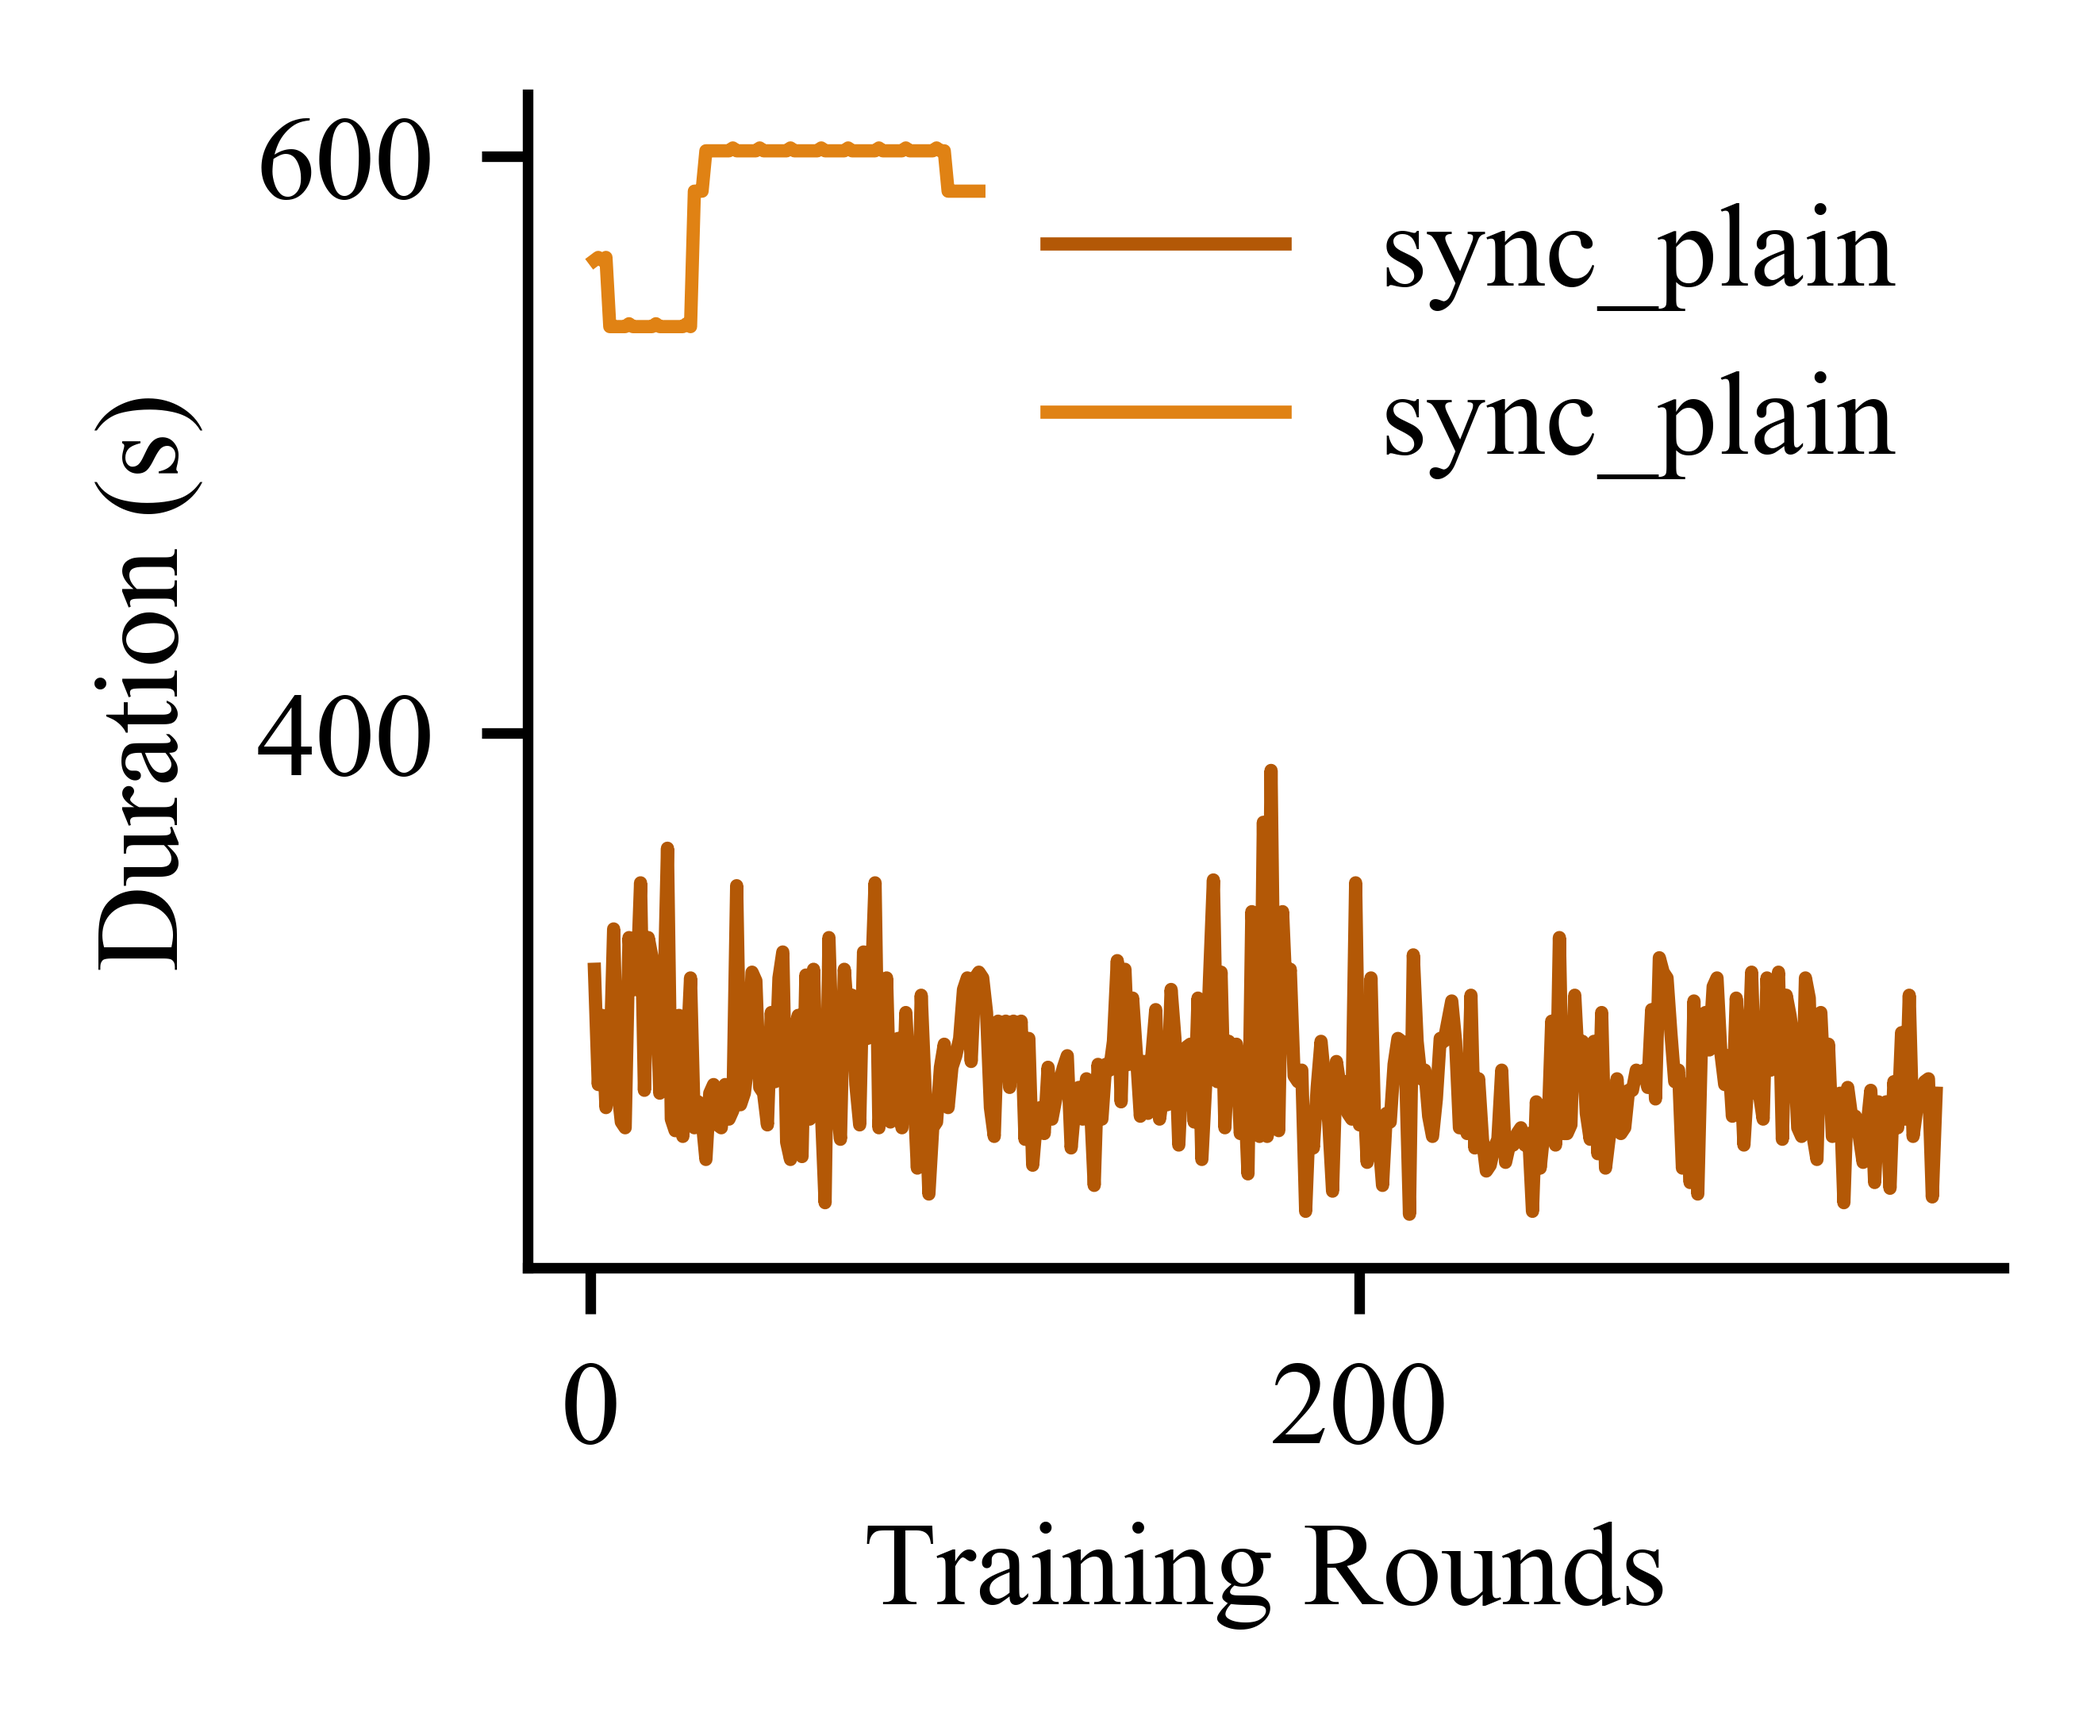
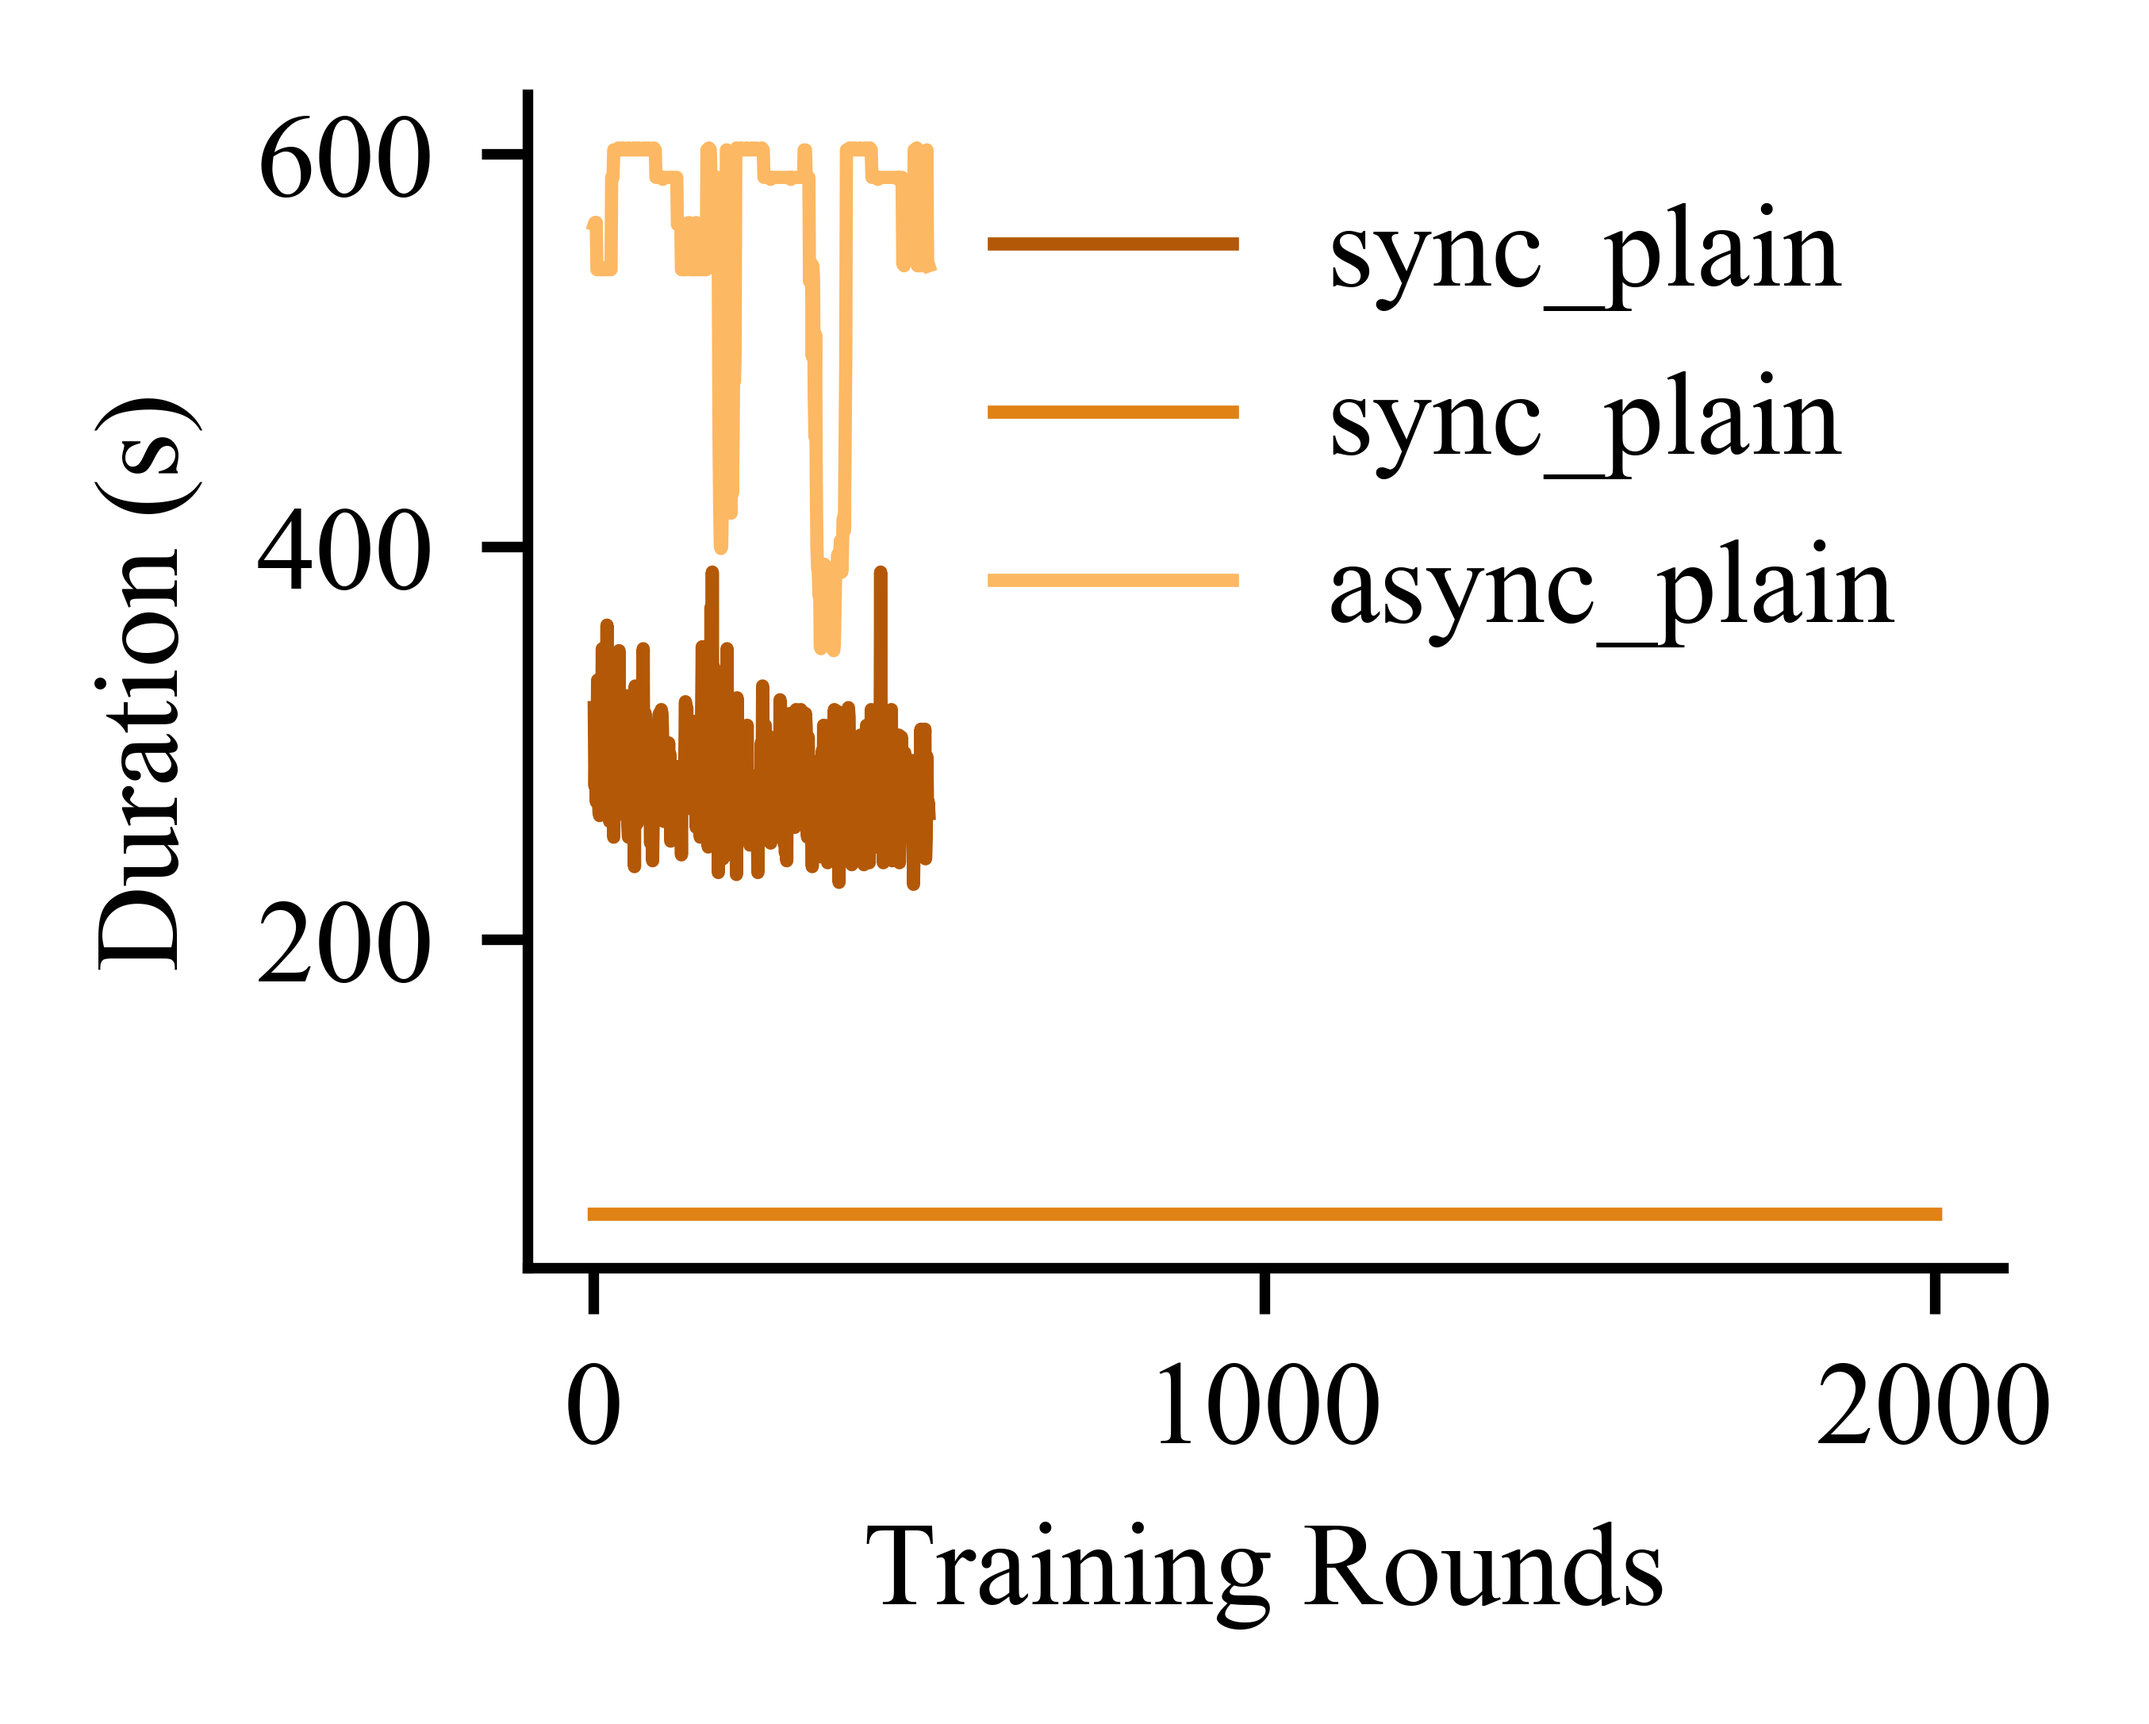
For checking out.

diff --git a/core/evals/my_perf.py b/core/evals/my_perf.py
@@ -17,6 +17,7 @@ def plot_line(datas, xs, linelabels=None, label=None, y_label="CDF", name="my_pl
     ax = fig.add_subplot(111)
 
     colors = ['#b35806','#e08214','#fdb863','#8073ac','#542788', '#000000']
+    colors = ['#b35806', '#e08214', '#8073ac', '#542788', '#000000']
     # linetype = ['-']
     linetype = ['-', '--']
     # markertype = ['o', '|', '+', 'x']
@@ -101,14 +102,23 @@ def plot_line_2(datas, xs, linelabels=None, label=None, y_label="CDF", name="my_
 
 def run(task_prefix):
     # personalized = "meta" # "meta" or "none" or "ditto"
-    task_dict = {
+    task_dict = {  # for google_speech
         # f"local_none_all_test_60": "local",
         f"random_none_all_test": "sync_plain",
         # f"random_meta_all_test": f"sync_plainync_meta",
         # f"async_meta_all_test_100_60": "async_meta",
-        # f"async_none_all_test_60": "async_plain",
+        f"async_none_all_test_60": "async_plain",
         f"random_none_larger_all_test": "sync_plain_larger",
     }
+
+    # task_dict = {  # for openimage
+    #     # f"local_none_all_test_60": "local",
+    #     f"random_none_all_test": "sync_plain",
+    #     # f"random_meta_all_test": f"sync_plainync_meta",
+    #     # f"async_meta_all_test_100_60": "async_meta",
+    #     f"async_none_all_test": "async_plain",
+    #     f"random_none_larger_all_test": "sync_plain_larger",
+    # }
 
     # x-axis
     training_round_list_list_no_sync = []

diff --git a/core/fllibs.py b/core/fllibs.py
@@ -174,8 +174,13 @@ def init_dataset_all_test():
             from utils.openimage import OpenImage
             _, all_test_transform = get_data_transform('openImg')
             all_test_dataset = OpenImage(args.data_dir, dataset='train', transform=all_test_transform)
+
+        elif args.data_set == 'femnist':
+            from utils.femnist import FEMNIST
+            _, all_test_transform = get_data_transform('mnist')
+            all_test_dataset = FEMNIST(args.data_dir, train=True, transform=all_test_transform)
         else:
-            print('DataSet must be {}!'.format(['speech', 'openImg']))
+            print('DataSet must be {}!'.format(['speech', 'openImg', 'femnist']))
             sys.exit(-1)
 
     return all_test_dataset

diff --git a/dataset/data/google_speech/parse.py b/dataset/data/google_speech/parse.py
@@ -68,7 +68,7 @@ with open("val.csv", "w") as fout:
 
 
 
-"""
+# """
 client_dict = {k: v for v, k in enumerate(client_list)}
 labels = ['up', 'two', 'sheila', 'zero', 'yes', 'five', 'one', 'happy', 'marvin', 'no', 'go', 'seven', 'eight', 'tree', 'stop', 'down', 'forward', 'learn', 'house', 'three', 'six', 'backward', 'dog', 'cat', 'wow', 'left', 'off', 'on', 'four', 'visual', 'nine', 'bird', 'right', 'follow', 'bed']
 
@@ -130,4 +130,4 @@ for audio in train:
 print(audioToClient)
 with open('audioToClient', 'wb') as f:
     pickle.dump(audioToClient, f)
-"""
+# """
